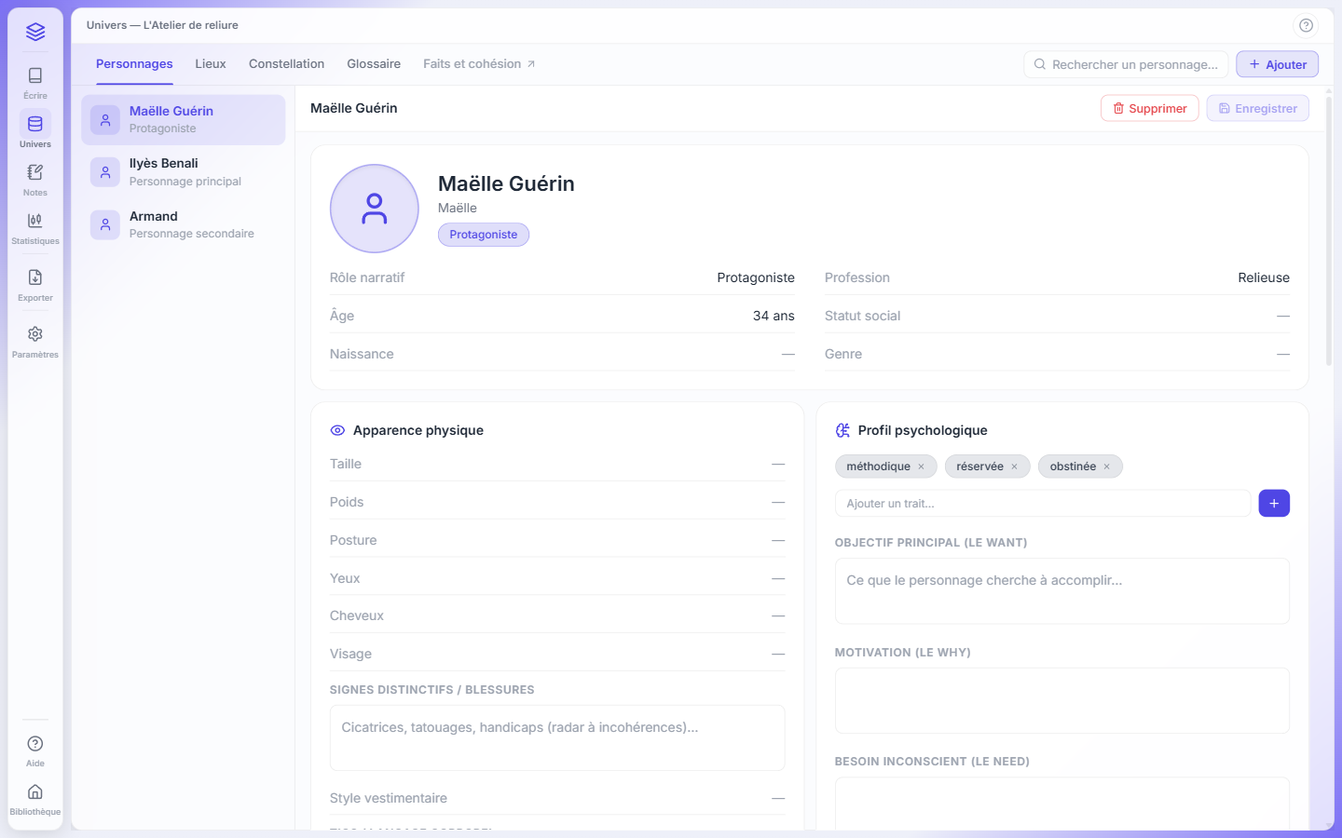
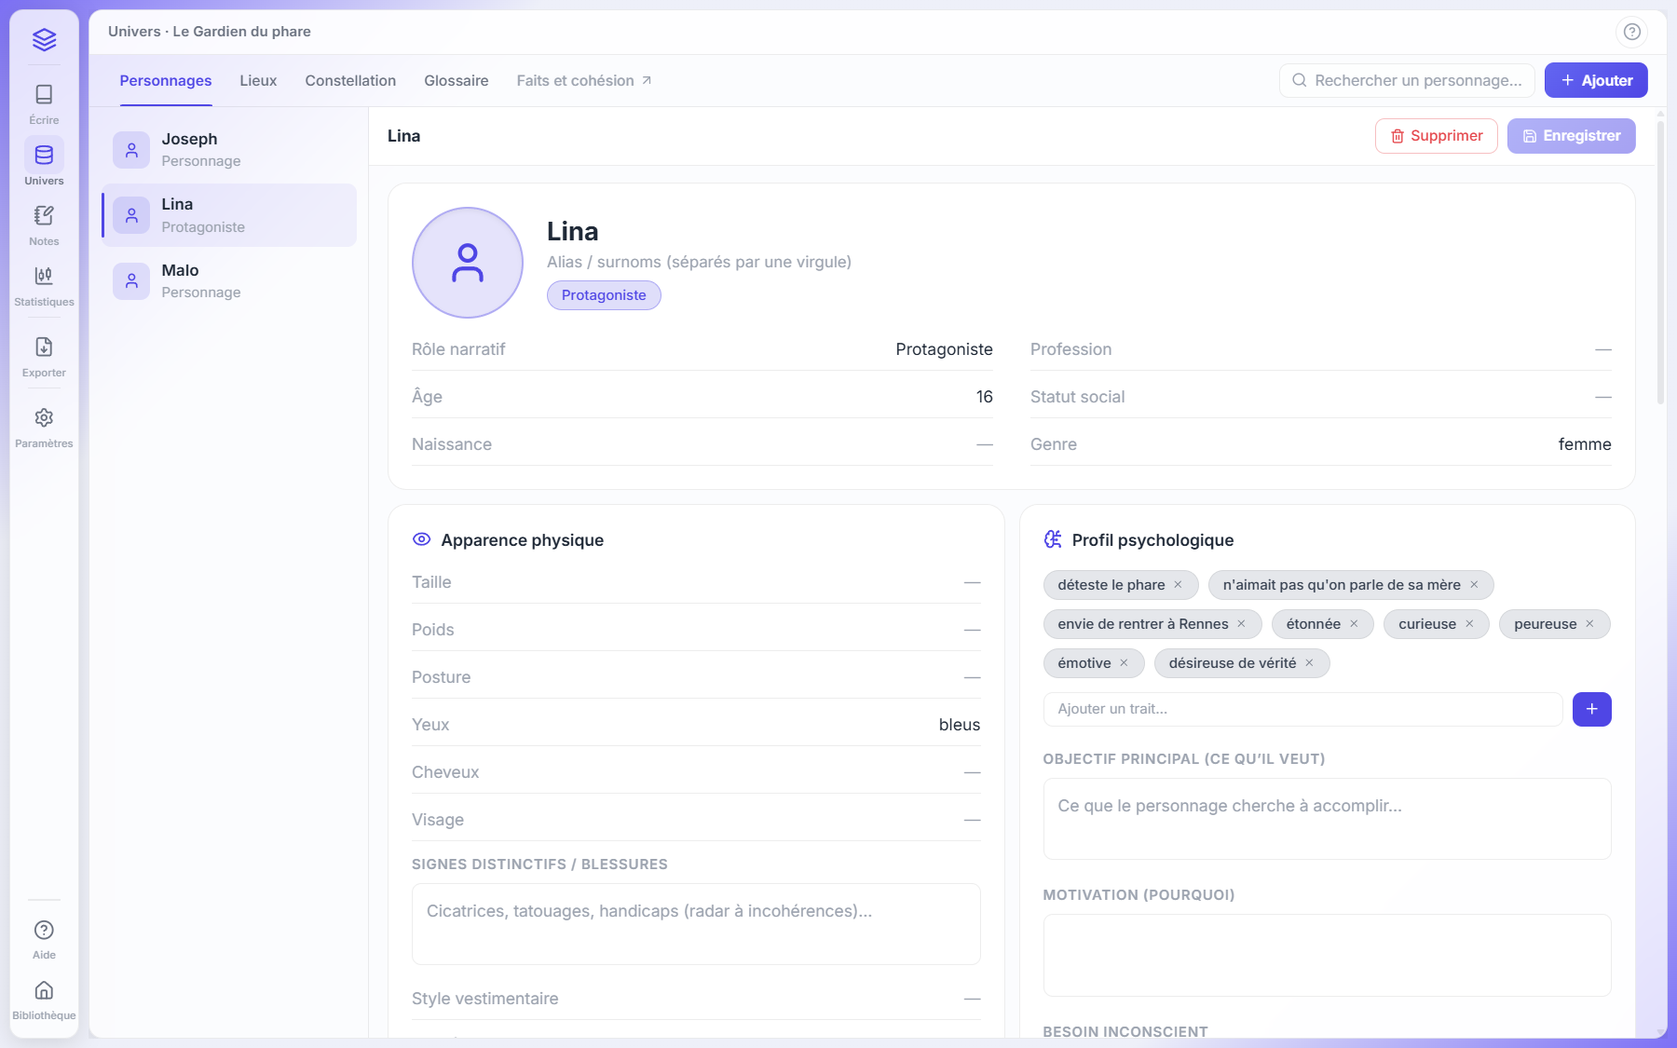
contenu: site aligné sur Jema 4.1
- Visite : nouvelles captures réelles (Demander à Jema avec preuve,
  correction, fiches, regard d'éditeur, statistiques, export,
  bibliothèque) ; choix du thème seulement pour les vues qui l'ont.
- Guide : synchronisé depuis l'app (fiche lecture seule), capture en
  tête des fiches concernées.
- Étapes, atelier, FAQ, bêta : preuve citée, regard d'éditeur, modèles
  Qwen3 selon la RAM, limite de 3 univers, export vérifié.
- Nouveautés 4.1.0 en brouillon (publiée avec la version).
- ARCHITECTURE : D-15.

diff --git a/src/content/guide/bibliotheque.md b/src/content/guide/bibliotheque.md
@@ -1,19 +1,19 @@
 ---
 id: "bibliotheque"
 titre: "Bibliothèque"
-ou: "Rail › Bibliothèque"
+ou: "Barre de gauche › Bibliothèque"
 vue: "LIBRARY"
 resume: "La liste de vos projets. Créez-en un nouveau ou ouvrez celui sur lequel vous travaillez ; Jema vous ramène à l'endroit où vous vous étiez arrêté."
-mots: "projet, nouveau, ouvrir, accueil, roman, importer, couverture, pitch, mot de passe, limite, archiver"
+mots: "projet, nouveau, ouvrir, accueil, roman, importer, couverture, pitch, mot de passe, limite, archiver, lecture seule"
 ---
 ## À quoi ça sert
 Retrouver tous vos projets d'écriture et en créer de nouveaux.
 
 ## Où le trouver
-Rail › Bibliothèque (en bas du rail). C'est aussi l'écran d'accueil au lancement de Jema.
+Barre de gauche › Bibliothèque, tout en bas. C'est aussi l'écran d'accueil au lancement de Jema.
 
 ## Pas à pas
-1. Cliquez sur la carte « Nouveau projet » : la fenêtre « Nouvel univers » s'ouvre sur l'onglet « Créer ».
+1. Cliquez sur la carte « Nouvel univers » : la fenêtre « Nouvel univers » s'ouvre sur l'onglet « Créer ».
 2. Donnez un titre (obligatoire, modifiable plus tard). Le pitch, l'objectif de mots et la couverture sont facultatifs ; la couleur de la couverture teinte la fenêtre.
 3. « Protéger par un mot de passe » (facultatif) chiffre le manuscrit : saisissez-le deux fois et conservez la clé de récupération affichée ensuite.
 4. Jema crée un premier chapitre vide et vous y dépose : vous pouvez écrire tout de suite.
@@ -21,11 +21,15 @@ Rail › Bibliothèque (en bas du rail). C'est aussi l'écran d'accueil au lance
 6. Pour reprendre un projet existant, cliquez sur sa carte.
 
 ## Bon à savoir
-- Vos projets vivent dans « Documents / Jema Univers / <votre projet> », un fichier par chapitre. Rien n'est envoyé sur Internet.
+- Vos projets vivent dans « Documents / Jema Univers / <votre projet> », un fichier par chapitre. Jema n'envoie rien sur Internet.
+- Sur beaucoup d'ordinateurs Windows, OneDrive sauvegarde le dossier « Documents » dans son nuage : vos manuscrits y sont alors copiés. Jema vous prévient dans la Bibliothèque ; pour l'éviter, arrêtez la sauvegarde du dossier Documents dans les paramètres de OneDrive.
+- Si un chapitre a été modifié en dehors de Jema (autre logiciel, synchronisation, fichier abîmé), Jema le signale à son ouverture et propose de revenir à une version précédente.
 - À la réouverture, Jema vous ramène au chapitre et à la ligne que vous aviez quittés.
 - « Découvrir Jema » rejoue l'accueil de présentation.
+- Un dossier copié à la main dans « Jema Univers » (par l'explorateur de fichiers) s'ouvre en lecture seule : voir la fiche « Univers en lecture seule ».
 - Pendant la Bêta, Jema accueille 3 univers. Pour en commencer un autre, archivez-en un (Paramètres › Général › Exporter (.zip), réimportable) puis retirez-le (Paramètres › Zone de danger), si vous le souhaitez.
 
 ## Si ça ne marche pas
+- Une carte porte l'onglet « Lecture seule » : l'univers n'est pas enregistré sur cet ordinateur. Ouvrez-le puis cliquez sur « Importer cet univers ».
 - Un projet n'apparaît pas : vérifiez qu'il se trouve bien dans « Documents / Jema Univers ».
 - Un projet protégé demande son mot de passe à l'ouverture : sans lui ni la clé de récupération, il ne peut pas être ouvert.

diff --git a/src/content/versions/4-1-0.md b/src/content/versions/4-1-0.md
@@ -1,0 +1,39 @@
+---
+version: 4.1.0
+date: 2026-11-24
+canal: bêta
+titre: Jema montre ses preuves
+resume: Chaque réponse de Jema cite le passage de votre manuscrit sur lequel elle s'appuie. Nouvelle interface, regard d'éditeur sur tout le livre, et une IA plus fiable qui s'adapte à votre ordinateur.
+brouillon: true
+---
+
+## Nouveau
+
+- **Voir la preuve** : sous chaque réponse, Jema montre l'extrait exact de votre texte sur lequel elle s'appuie. Quand elle ne trouve rien, elle le dit au lieu d'inventer.
+- **Regard d'éditeur** (Paramètres du projet › Recommandations) : passages lents, chapitres hors norme, promesses sans suite, répétitions. Chaque remarque cite le passage et se mesure à votre propre livre. L'analyse se lance sur demande.
+- **Résumés** : demandez à Jema le résumé détaillé d'un chapitre, ou celui de toute l'histoire.
+- **Qui raconte, qui parle** : Jema repère le narrateur de chaque section et signale les accords qui ne collent pas (« coquille, ou fiche à corriger ? »).
+- **Nouvelle interface** : Jema au centre (« Demander à Jema »), personnages et lieux réunis dans Univers, notifications sous la cloche, recherche sur tout le manuscrit. Un « Quoi de neuf » et une visite guidée vous montrent où tout se trouve.
+- **Bibliothèque** : vos univers côte à côte, chaque livre s'épaissit à mesure que vous écrivez.
+
+## Amélioré
+
+- **Une IA plus fiable** : Jema passe aux modèles Qwen3 (licence Apache 2.0). Elle choisit le niveau selon votre mémoire vive : Standard (Qwen3-4B) ou Confort (Qwen3-8B), et vous pouvez en changer.
+- **Continuité** : les incohérences entre chapitres (un nom mal orthographié, un personnage mort qui agit, des yeux qui changent de couleur) sont repérées par des règles vérifiables, avec beaucoup moins de fausses alertes.
+- **Fiches** : moins de fiches parasites, les liens de parenté dits dans le texte sont retenus, « la mère de Lina » n'est plus confondue avec Lina.
+- **Le chat reste disponible** pendant l'analyse de fond : l'analyse se met en pause dès que vous posez une question.
+- **Export** : il prend tout le manuscrit, vérifie que rien ne manque, et affiche le nombre de signes, espaces comprises.
+- **Correction** : chaque proposition s'affiche avec son « Pourquoi » avant d'être appliquée. Le niveau Strict relève aussi la concordance des temps.
+- **Un seul compte de mots** partout : liste des chapitres, statistiques et export.
+
+## Sécurité
+
+- **Protection des univers** : un univers copié hors de Jema, ou modifié par un autre logiciel, s'ouvre en lecture seule. Vos textes restent lisibles et exportables.
+- **Intégrité de l'application** : une application modifiée refuse de démarrer.
+- Les modèles d'IA sont vérifiés par empreinte après téléchargement.
+
+## À savoir
+
+- Pendant la bêta, vous pouvez avoir 3 univers modifiables ; les univers en lecture seule ne comptent pas.
+- Sur un ordinateur modeste, une réponse de Jema peut prendre une minute.
+- Jema n'est pas encore signée : Windows et macOS afficheront un avertissement à l'installation.

diff --git a/src/content/guide/lecture-seule.md b/src/content/guide/lecture-seule.md
@@ -1,0 +1,28 @@
+---
+id: "lecture-seule"
+titre: "Univers en lecture seule"
+ou: "Bibliothèque › carte marquée « Lecture seule »"
+resume: "Un univers copié hors de Jema (par l'explorateur de fichiers) ou dont un fichier interne a été modifié s'ouvre en lecture seule. Vous pouvez le lire et l'exporter ; pour le modifier, importez-le."
+mots: "lecture seule, verrouillé, copie, copier, dossier, explorateur, enregistré, enregistrer, importer, identifiant, signature, protection, limite, bêta"
+---
+## À quoi ça sert
+Protéger vos univers et la limite de la Bêta. Chaque univers créé ou importé dans Jema est enregistré sur cet ordinateur. Un dossier copié à la main dans « Documents / Jema Univers », ou dont le fichier interne du projet a été modifié en dehors de Jema, n'est pas enregistré : Jema l'ouvre en lecture seule plutôt que de le refuser. Vos textes ne sont jamais bloqués.
+
+## Où le trouver
+Bibliothèque : la carte de l'univers porte l'onglet « Lecture seule ». Une fois l'univers ouvert, un bandeau en haut de l'écran le rappelle, avec le bouton « Importer cet univers ».
+
+## Pas à pas
+1. Ouvrez l'univers depuis la Bibliothèque : tout se lit normalement (chapitres, fiches de l'Univers, notes, statistiques).
+2. Pour en garder une copie ailleurs, utilisez la vue Exporter de la barre de gauche (PDF, Word, EPUB…) : l'export fonctionne en lecture seule.
+3. Pour le modifier, cliquez sur « Importer cet univers » dans le bandeau. Il reçoit un nouvel identifiant et devient un univers à part entière.
+4. Pendant la Bêta, l'import compte dans la limite de 3 univers. Si elle est atteinte, archivez puis retirez un autre univers (voir la fiche Bibliothèque), puis recommencez.
+
+## Bon à savoir
+- En lecture seule, Jema ne modifie rien dans le dossier : ni le texte, ni les fiches, ni les notes, ni les réglages. L'analyse automatique de Jema y est suspendue.
+- Renommer ou déplacer un univers dans « Documents / Jema Univers » ne le met pas en lecture seule : Jema le reconnaît.
+- Pour partager un univers ou le transférer sur un autre ordinateur, préférez Paramètres › Général › Exporter (.zip), puis l'onglet « Importer » de la fenêtre « Nouvel univers ».
+- Rien n'est envoyé sur Internet : la vérification se fait entièrement sur votre ordinateur.
+
+## Si ça ne marche pas
+- « Importer cet univers » indique que la limite est atteinte : archivez puis retirez un autre univers, ou gardez celui-ci en lecture seule.
+- Un univers que vous n'avez jamais copié apparaît en lecture seule : son fichier interne a pu être modifié par un autre logiciel (synchronisation, restauration). Importez-le pour le reprendre.

diff --git a/src/content/pages/faq.md b/src/content/pages/faq.md
@@ -2,7 +2,7 @@
 title: Questions fréquentes
 description: Confidentialité, IA, installation, prix et formats de Jema.
 section: info
-updated: 2026-11-16
+updated: 2026-11-24
 ---
 
 ## Mes textes sont-ils envoyés sur Internet ?
@@ -12,6 +12,10 @@ Non. Vos manuscrits, vos fiches et vos conversations avec Jema restent dans des 
 ## Jema écrit-elle à ma place ?
 
 Non. Elle relit, signale et propose. Chaque proposition attend votre accord : vous acceptez ou vous ignorez. Votre voix reste la vôtre.
+
+## Jema peut-elle se tromper ?
+
+Oui, comme toute IA. C'est pourquoi elle cite le passage sur lequel elle s'appuie : « Voir la preuve », sous chaque réponse, montre l'extrait exact de votre manuscrit. Quand elle ne trouve rien dans votre texte, elle le dit au lieu d'inventer. Vérifiez toujours ce qui compte.
 
 ## Mes textes servent-ils à entraîner une IA ?
 
@@ -23,11 +27,15 @@ Jema est gratuite pendant la bêta, jusqu'au 20 février 2027.
 
 ## Quel ordinateur faut-il ?
 
-Windows 10 ou 11, macOS ou Linux, et 8 Go de mémoire vive au minimum pour l'IA.
+Windows 10 ou 11, macOS ou Linux, et 8 Go de mémoire vive au minimum pour l'IA. Jema choisit son modèle selon votre machine : Qwen3-4B en dessous de 11 Go de mémoire, Qwen3-8B au-delà. Ces modèles ouverts sont publiés sous licence Apache 2.0. Vous pouvez changer de niveau dans Jema. Sur un ordinateur modeste, une réponse peut prendre une minute.
 
 ## Pourquoi Windows ou macOS affichent-ils un avertissement ?
 
 Jema n'est pas encore signée numériquement. Sur Windows, cliquez sur « Informations complémentaires » puis « Exécuter quand même ». Sur macOS, faites un clic droit sur Jema dans Applications, puis « Ouvrir ».
+
+## Pourquoi un univers s'ouvre-t-il en lecture seule ?
+
+Parce qu'il a été copié à la main dans le dossier de Jema, ou modifié par un autre logiciel. Vous pouvez le lire et l'exporter. Pour le modifier, cliquez sur « Importer cet univers ». Pendant la bêta, vous pouvez avoir 3 univers modifiables ; les univers en lecture seule ne comptent pas. Détails dans le [mode d'emploi](/guide/lecture-seule).
 
 ## Puis-je importer un manuscrit existant ?
 
@@ -35,7 +43,7 @@ Oui : Word (.docx), PDF, RTF, HTML, Markdown ou texte. Jema le découpe en chapi
 
 ## Dans quels formats puis-je exporter ?
 
-PDF paginé, EPUB, Word, HTML et Markdown, pour un chapitre ou le manuscrit entier.
+PDF paginé, EPUB, Word, HTML et Markdown, pour un chapitre ou le manuscrit entier. Avant d'exporter, Jema vérifie qu'aucun chapitre ne manque et affiche le nombre de signes, espaces comprises : c'est l'unité des maisons d'édition.
 
 ## Puis-je protéger un manuscrit ?
 

diff --git a/src/content/guide/demander-jema.md b/src/content/guide/demander-jema.md
@@ -3,7 +3,7 @@ id: "demander-jema"
 titre: "Demander à Jema"
 ou: "Barre d'outils › Demander à Jema"
 raccourci: "assistant"
-mots: "jema, question, chat, assistant, ia, panneau, sources, discussion, historique, plein écran, supprimer"
+mots: "jema, question, chat, assistant, ia, panneau, sources, discussion, historique, plein écran, supprimer, résumé, résumé détaillé, synopsis, histoire"
 ---
 ## À quoi ça sert
 Poser une question sur votre récit, ou demander une action précise, à l'IA locale de Jema.
@@ -23,6 +23,10 @@ Barre d'outils › « Demander à Jema », en haut à droite de l'écran Écrire
 - Jema n'écrit pas à votre place, ne supprime aucun chapitre et n'écrase jamais ce que vous avez saisi.
 - Votre question passe avant les analyses de fond : elles se mettent en pause, puis reprennent.
 - Certaines demandes sont exécutées telles quelles, par exemple « crée un personnage Arthemis ». <kbd>F1</kbd> en donne la liste.
+- Bref résumé d’un chapitre : « Résume le chapitre 3 ». Quelques phrases, à partir des passages retrouvés.
+- Résumé détaillé d’un chapitre : « Résumé détaillé du chapitre 3 » ou « Résume en détail ce chapitre ». Jema lit le chapitre en entier et en rend environ le tiers de la longueur (un chapitre de 3 000 mots donne un résumé de 830 à 1 000 mots), dans l'ordre des événements. Comptez quelques minutes.
+- Résumé de l’histoire : « Résume mon histoire » ou « De quoi parle mon roman ? ». Cinq rubriques : protagonistes principaux, enjeux, genre narratif, situation actuelle, mystères non élucidés. Il s'appuie sur les résumés de chapitres que l'analyse de fond a déjà faits : plus elle a avancé, plus il est complet.
+- « Chapitre 3 » désigne le chapitre intitulé 3 (« Chapitre 3 », « C3 ») s'il existe, sinon le troisième de la table des matières.
 - Jema garde vos 15 dernières discussions dans le projet. L'icône d'horloge du panneau les rouvre ; la corbeille en supprime une, après confirmation, définitivement.
 - Les deux colonnes du plein écran se masquent par les icônes en haut à gauche et à droite ; Jema s'en souvient.
 - Tout reste sur votre ordinateur.

diff --git a/src/content/guide/affichage.md b/src/content/guide/affichage.md
@@ -12,7 +12,7 @@ Choisir comment vous voyez la page, sans jamais toucher au texte : relire, écri
 Barre d'outils › onglet « Affichage », en quatre familles : immersion, aides à l'écriture, page, texte. Le thème se change avec le bouton en haut à droite de la barre.
 
 ## Pas à pas
-1. « Lecture » efface les barres d'outils pour vous relire ; « Concentration » efface le rail, les chapitres et le panneau de Jema (Échap en sort) ; « Plein écran » donne tout l'écran à la fenêtre.
+1. « Lecture » efface les barres d'outils pour vous relire ; « Concentration » efface la barre de gauche, les chapitres et le panneau de Jema (Échap en sort) ; « Plein écran » donne tout l'écran à la fenêtre.
 2. « Machine à écrire » garde la ligne où vous écrivez au milieu de l'écran ; « Focus paragraphe » estompe tout sauf le paragraphe en cours.
 3. Les loupes règlent le zoom ; un clic sur le pourcentage revient à 100 % ; « Ajuster » fait tenir la page dans la largeur disponible.
 4. « Caractères invisibles » affiche les fins de paragraphe (¶) et marque les espaces insécables ; « Repères de marges » trace la bande de texte de chaque page en pointillés.
@@ -24,6 +24,6 @@ Barre d'outils › onglet « Affichage », en quatre familles : immersion, aides
 - Machine à écrire, focus paragraphe, caractères invisibles et repères de marges restent actifs d'une session à l'autre, jusqu'à ce que vous les désactiviez.
 
 ## Si ça ne marche pas
-- Vous ne trouvez plus le rail : vous êtes en mode Concentration. Appuyez sur Échap.
+- Vous ne trouvez plus la barre de gauche : vous êtes en mode Concentration. Appuyez sur Échap.
 - La barre des tâches a disparu : vous êtes en plein écran. Appuyez de nouveau sur <kbd>F11</kbd>.
 - « Ajuster » ne change rien : la page tient déjà dans la largeur disponible au zoom actuel.

diff --git a/docs/ARCHITECTURE.md b/docs/ARCHITECTURE.md
@@ -96,6 +96,7 @@ Tout nouvel outil tiers impose de mettre à jour : registre, politique de confid
 | D-12 | 21/11/2026 | Bot Fight Mode désactivé ; limitation de débit sur `/telecharger/*` | Bot Fight Mode bloquerait la sentinelle et peut déposer un cookie ; Cloudflare absorbe déjà les attaques par saturation. |
 | D-13 | 21/11/2026 | Respect de « Ne pas suivre » / GPC aussi côté serveur ; `security.txt` | Conformité RGPD de bout en bout ; norme de signalement des failles. |
 | D-14 | 24/11/2026 | Migration Astro 7, React 19, Tailwind 4 (clôt D-11) ; `compressHTML: true` ; retrait de `BASE_PATH` et du plugin `rehype-base` ; Node 24 épinglé | `npm audit` : 0 faille. Astro 7 supprime par défaut l'espace entre une ligne de texte et la balise suivante (« corrections.Vous ») : `true` garde le rendu d'Astro 5. Le nouveau moteur Markdown (Sätteri) n'accepte plus les plugins rehype ; ce plugin ne servait qu'à l'hébergement en sous-dossier (GitHub Pages, abandonné en D-03). Vérifié : texte des 37 pages identique, captures identiques au pixel près (hors mascotte animée), aucune violation CSP. |
+| D-15 | 24/11/2026 | Contenu aligné sur l'app 4.1 : captures réelles (`jema-editor_v2/.docs/captures-site`) dans la visite et en tête des fiches du guide ; Nouveautés 4.1.0 en **brouillon** | Les anciennes captures montraient Phi-3.5. Une fiche = une capture (spécification U13 de l'app). La fiche 4.1.0 ne s'affiche qu'une fois la version publiée sur `jema-releases` (passer `brouillon` à faux dans l'admin). Captures écartées : faits établis et incohérences du chat, prises avant la correction de leur affichage (« 01_Chapitre 1.json »). |
 
 ## 7. Évolutions prévues
 

diff --git a/src/content/pages/beta.md b/src/content/pages/beta.md
@@ -2,7 +2,7 @@
 title: La bêta de Jema
 description: Dates, conditions et limites de la phase de test de Jema, du 20 novembre 2026 au 20 février 2027.
 section: info
-updated: 2026-11-16
+updated: 2026-11-24
 ---
 
 Jema est en **bêta ouverte du 20 novembre 2026 au 20 février 2027**. Pendant cette période, l'application est gratuite et complète.
@@ -10,11 +10,12 @@ Jema est en **bêta ouverte du 20 novembre 2026 au 20 février 2027**. Pendant c
 ## Ce que vous obtenez
 
 - L'éditeur paginé, les chapitres, les fiches de personnages et de lieux, la constellation.
-- L'IA de Jema : questions sur votre manuscrit, correction, continuité. Elle tourne sur votre ordinateur.
-- L'import de vos manuscrits (Word, PDF, texte) et l'export en PDF, EPUB, Word et HTML.
+- L'IA de Jema : questions sur votre manuscrit (avec le passage cité), correction, continuité, regard d'éditeur. Elle tourne sur votre ordinateur.
+- L'import de vos manuscrits (Word, PDF, texte) et l'export en PDF, EPUB, Word, HTML et Markdown.
 
 ## Ce qui n'est pas encore prêt
 
+- Vous pouvez avoir 3 univers modifiables. Les univers en lecture seule ne comptent pas dans cette limite.
 - La sauvegarde en ligne et l'écriture à plusieurs n'existent pas encore.
 - L'IA est désactivée sur les projets protégés par mot de passe.
 - L'IA peut être lente, interrompre une réponse ou se tromper. Vérifiez toujours ses propositions.

diff --git a/src/content/guide/notes.md b/src/content/guide/notes.md
@@ -1,7 +1,7 @@
 ---
 id: "notes"
 titre: "Notes"
-ou: "Rail › Notes"
+ou: "Barre de gauche › Notes"
 raccourci: "annotate"
 vue: "NOTES"
 resume: "Vos notes de travail : idées, recherches, brouillons. Elles vivent à côté du manuscrit, pas dedans, et ne partent jamais à l'export."
@@ -11,12 +11,12 @@ mots: "note, annotation, idée, brouillon, tag, étiquette, ancrer"
 Garder vos réflexions à côté du texte, sans le salir.
 
 ## Où le trouver
-Rail › Notes pour toutes les notes ; la barre flottante (bouton « Note ») pour annoter un passage sélectionné.
+Barre de gauche › Notes pour toutes les notes ; la barre flottante (bouton « Note ») pour annoter un passage sélectionné.
 
 ## Pas à pas
 1. Sélectionnez un passage dans l'éditeur et cliquez sur « Note » dans la barre flottante.
 2. Attachez une note existante ou écrivez-en une nouvelle.
-3. Retrouvez toutes vos notes dans Rail › Notes : titre, étiquettes, texte ; filtrez la liste par étiquette.
+3. Retrouvez toutes vos notes dans la vue Notes de la barre de gauche : titre, étiquettes, texte ; filtrez la liste par étiquette.
 4. Depuis une note ancrée, revenez au passage d'un clic.
 
 ## Bon à savoir

diff --git a/src/content/guide/etiquettes.md b/src/content/guide/etiquettes.md
@@ -1,14 +1,14 @@
 ---
 id: "etiquettes"
 titre: "Étiquettes des notes"
-ou: "Rail › Notes › une note › ligne « Ajouter une étiquette »"
+ou: "Barre de gauche › Notes › une note › ligne « Ajouter une étiquette »"
 mots: "étiquette, tag, classer, trier, filtrer, notes, recherche, catégorie"
 ---
 ## À quoi ça sert
 Classer vos notes de travail pour les retrouver d'un clic : par personnage, par intrigue, par type de recherche, par chapitre à reprendre.
 
 ## Où le trouver
-Rail › Notes. Dans une note ouverte, la ligne marquée d'une étiquette, sous le titre ; dans la liste, les étiquettes du projet sous la recherche.
+Barre de gauche › Notes. Dans une note ouverte, la ligne marquée d'une étiquette, sous le titre ; dans la liste, les étiquettes du projet sous la recherche.
 
 ## Pas à pas
 1. Ouvrez une note et tapez une étiquette dans « Ajouter une étiquette… », puis Entrée (ou une virgule).

diff --git a/src/content/guide/parametres.md b/src/content/guide/parametres.md
@@ -1,7 +1,7 @@
 ---
 id: "parametres"
 titre: "Paramètres"
-ou: "Rail › Paramètres"
+ou: "Barre de gauche › Paramètres"
 vue: "SETTINGS"
 resume: "Les réglages du projet (couverture, nom, synopsis, objectif, sécurité), de l'assistant Jema et de l'application (mises à jour)."
 mots: "réglages, paramètres, couverture, synopsis, objectif, supprimer, mises à jour, archive, zip"
@@ -10,7 +10,7 @@ mots: "réglages, paramètres, couverture, synopsis, objectif, supprimer, mises 
 Régler votre projet, l'assistant Jema et l'application.
 
 ## Où le trouver
-Rail › Paramètres, en trois groupes : Projet, Assistant Jema, Application.
+Barre de gauche › Paramètres, en trois groupes : Projet, Assistant Jema, Application.
 
 ## Pas à pas
 1. Projet › Général : couverture, nom du projet, synopsis, objectif de mots, puis « Sauvegarder ». « Exporter (.zip) » y crée une archive complète du projet.

diff --git a/src/content/guide/univers.md b/src/content/guide/univers.md
@@ -1,7 +1,7 @@
 ---
 id: "univers"
 titre: "Univers"
-ou: "Rail › Univers"
+ou: "Barre de gauche › Univers"
 vue: "DATABASE"
 resume: "Les fiches de votre monde : personnages, lieux, constellation des liens et glossaire. Jema les complète à partir du texte ; ce que vous écrivez vous-même est protégé."
 mots: "personnage, lieu, fiche, base, constellation, glossaire, relations"
@@ -10,7 +10,7 @@ mots: "personnage, lieu, fiche, base, constellation, glossaire, relations"
 Rassembler et corriger ce que vous et Jema savez de vos personnages, de vos lieux et du vocabulaire de votre monde.
 
 ## Où le trouver
-Rail › Univers, avec quatre onglets : Personnages, Lieux, Constellation, Glossaire.
+Barre de gauche › Univers, avec quatre onglets : Personnages, Lieux, Constellation, Glossaire.
 
 ## Pas à pas
 1. Ouvrez l'onglet Personnages ou Lieux et choisissez une fiche.
